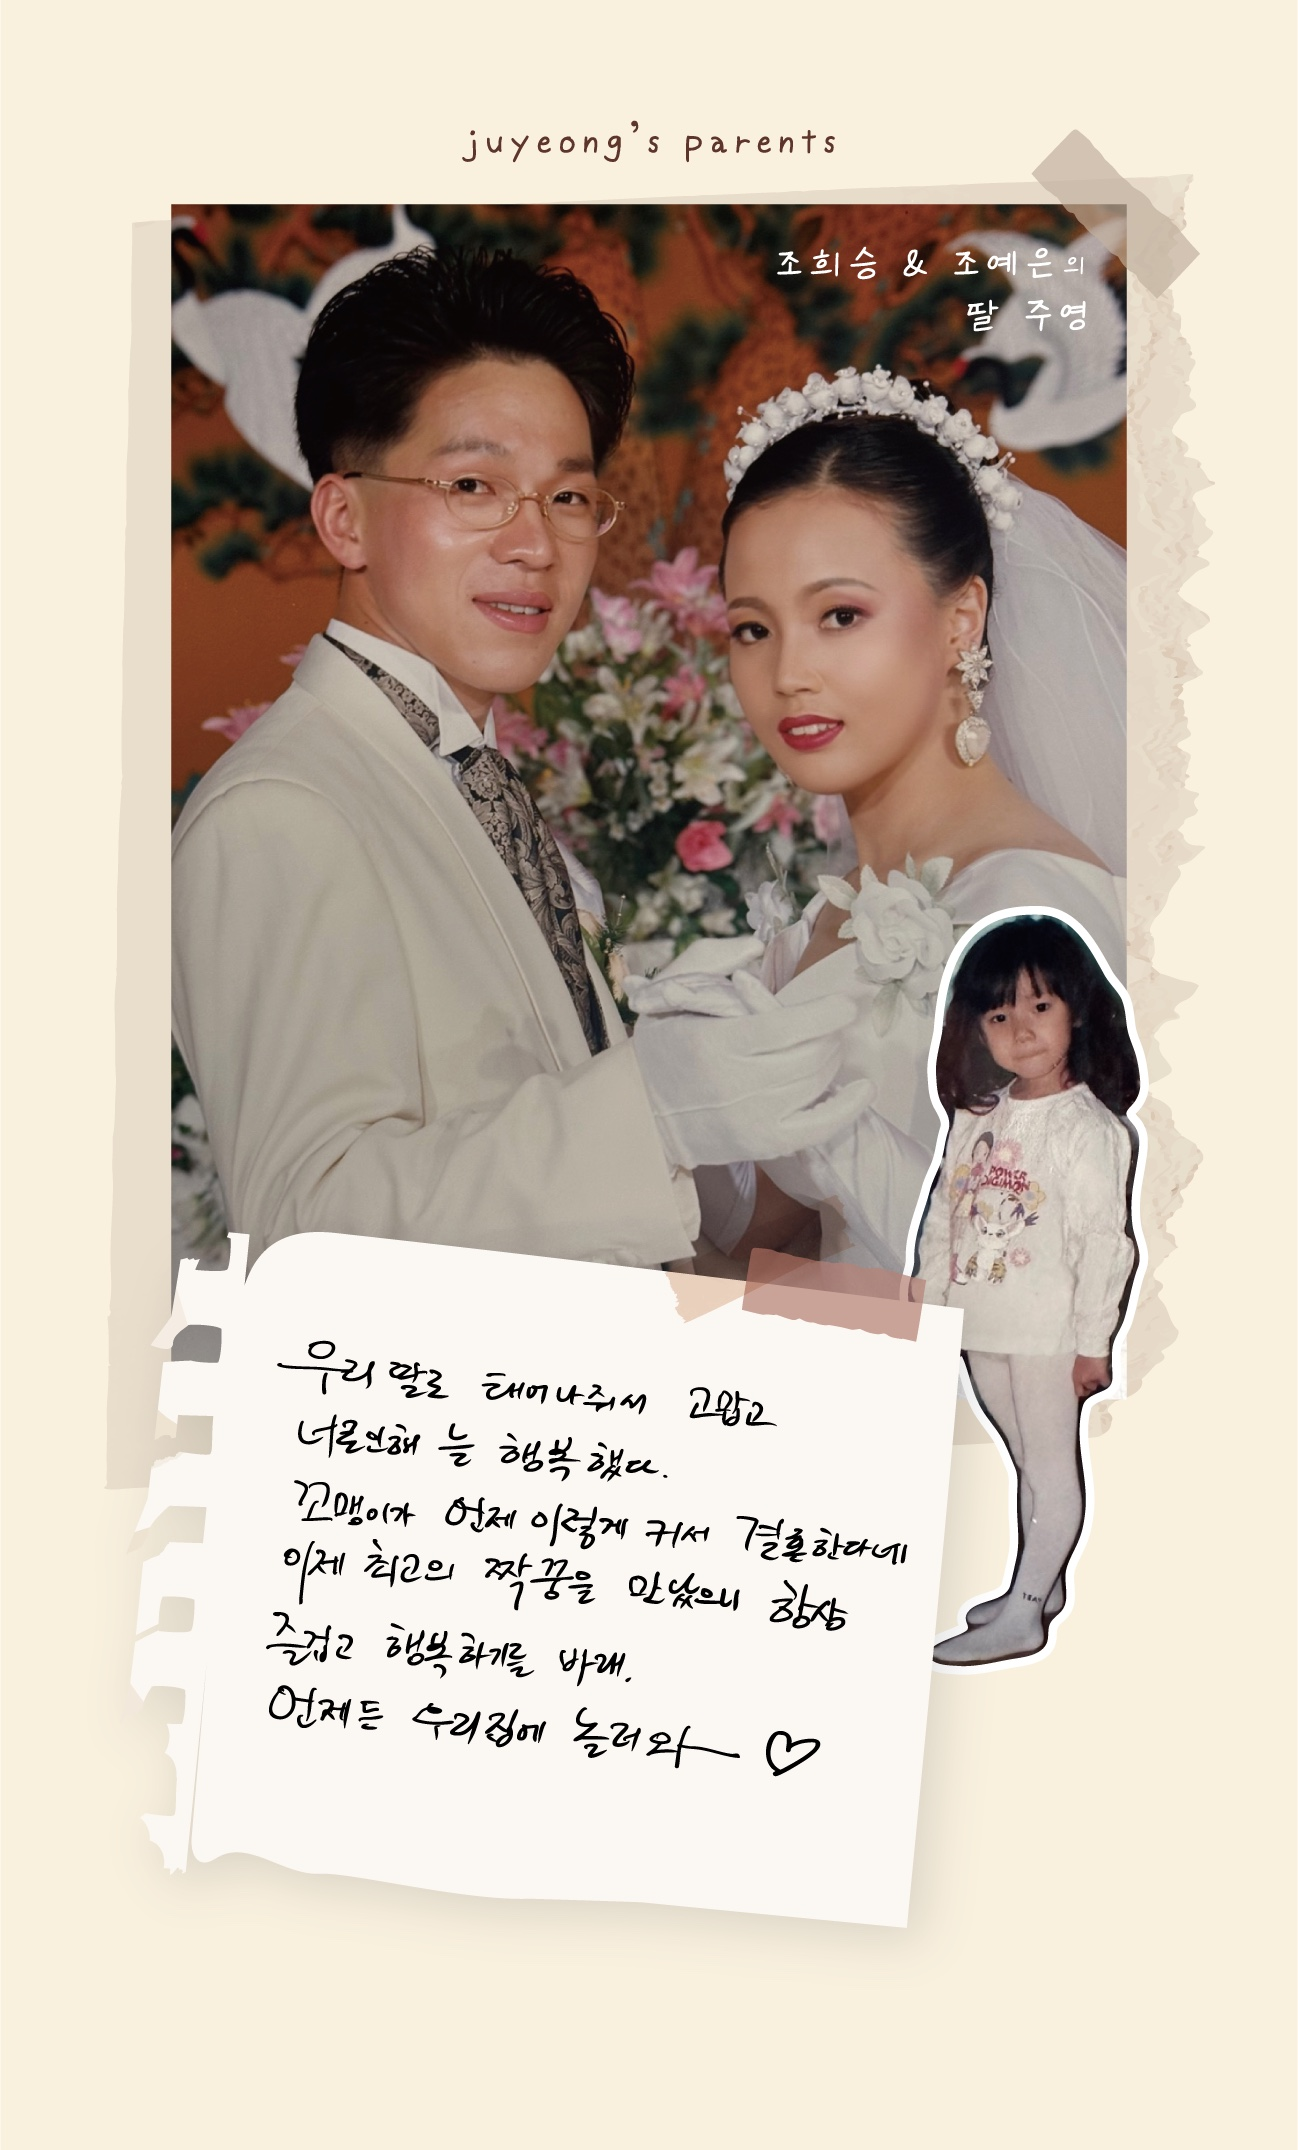
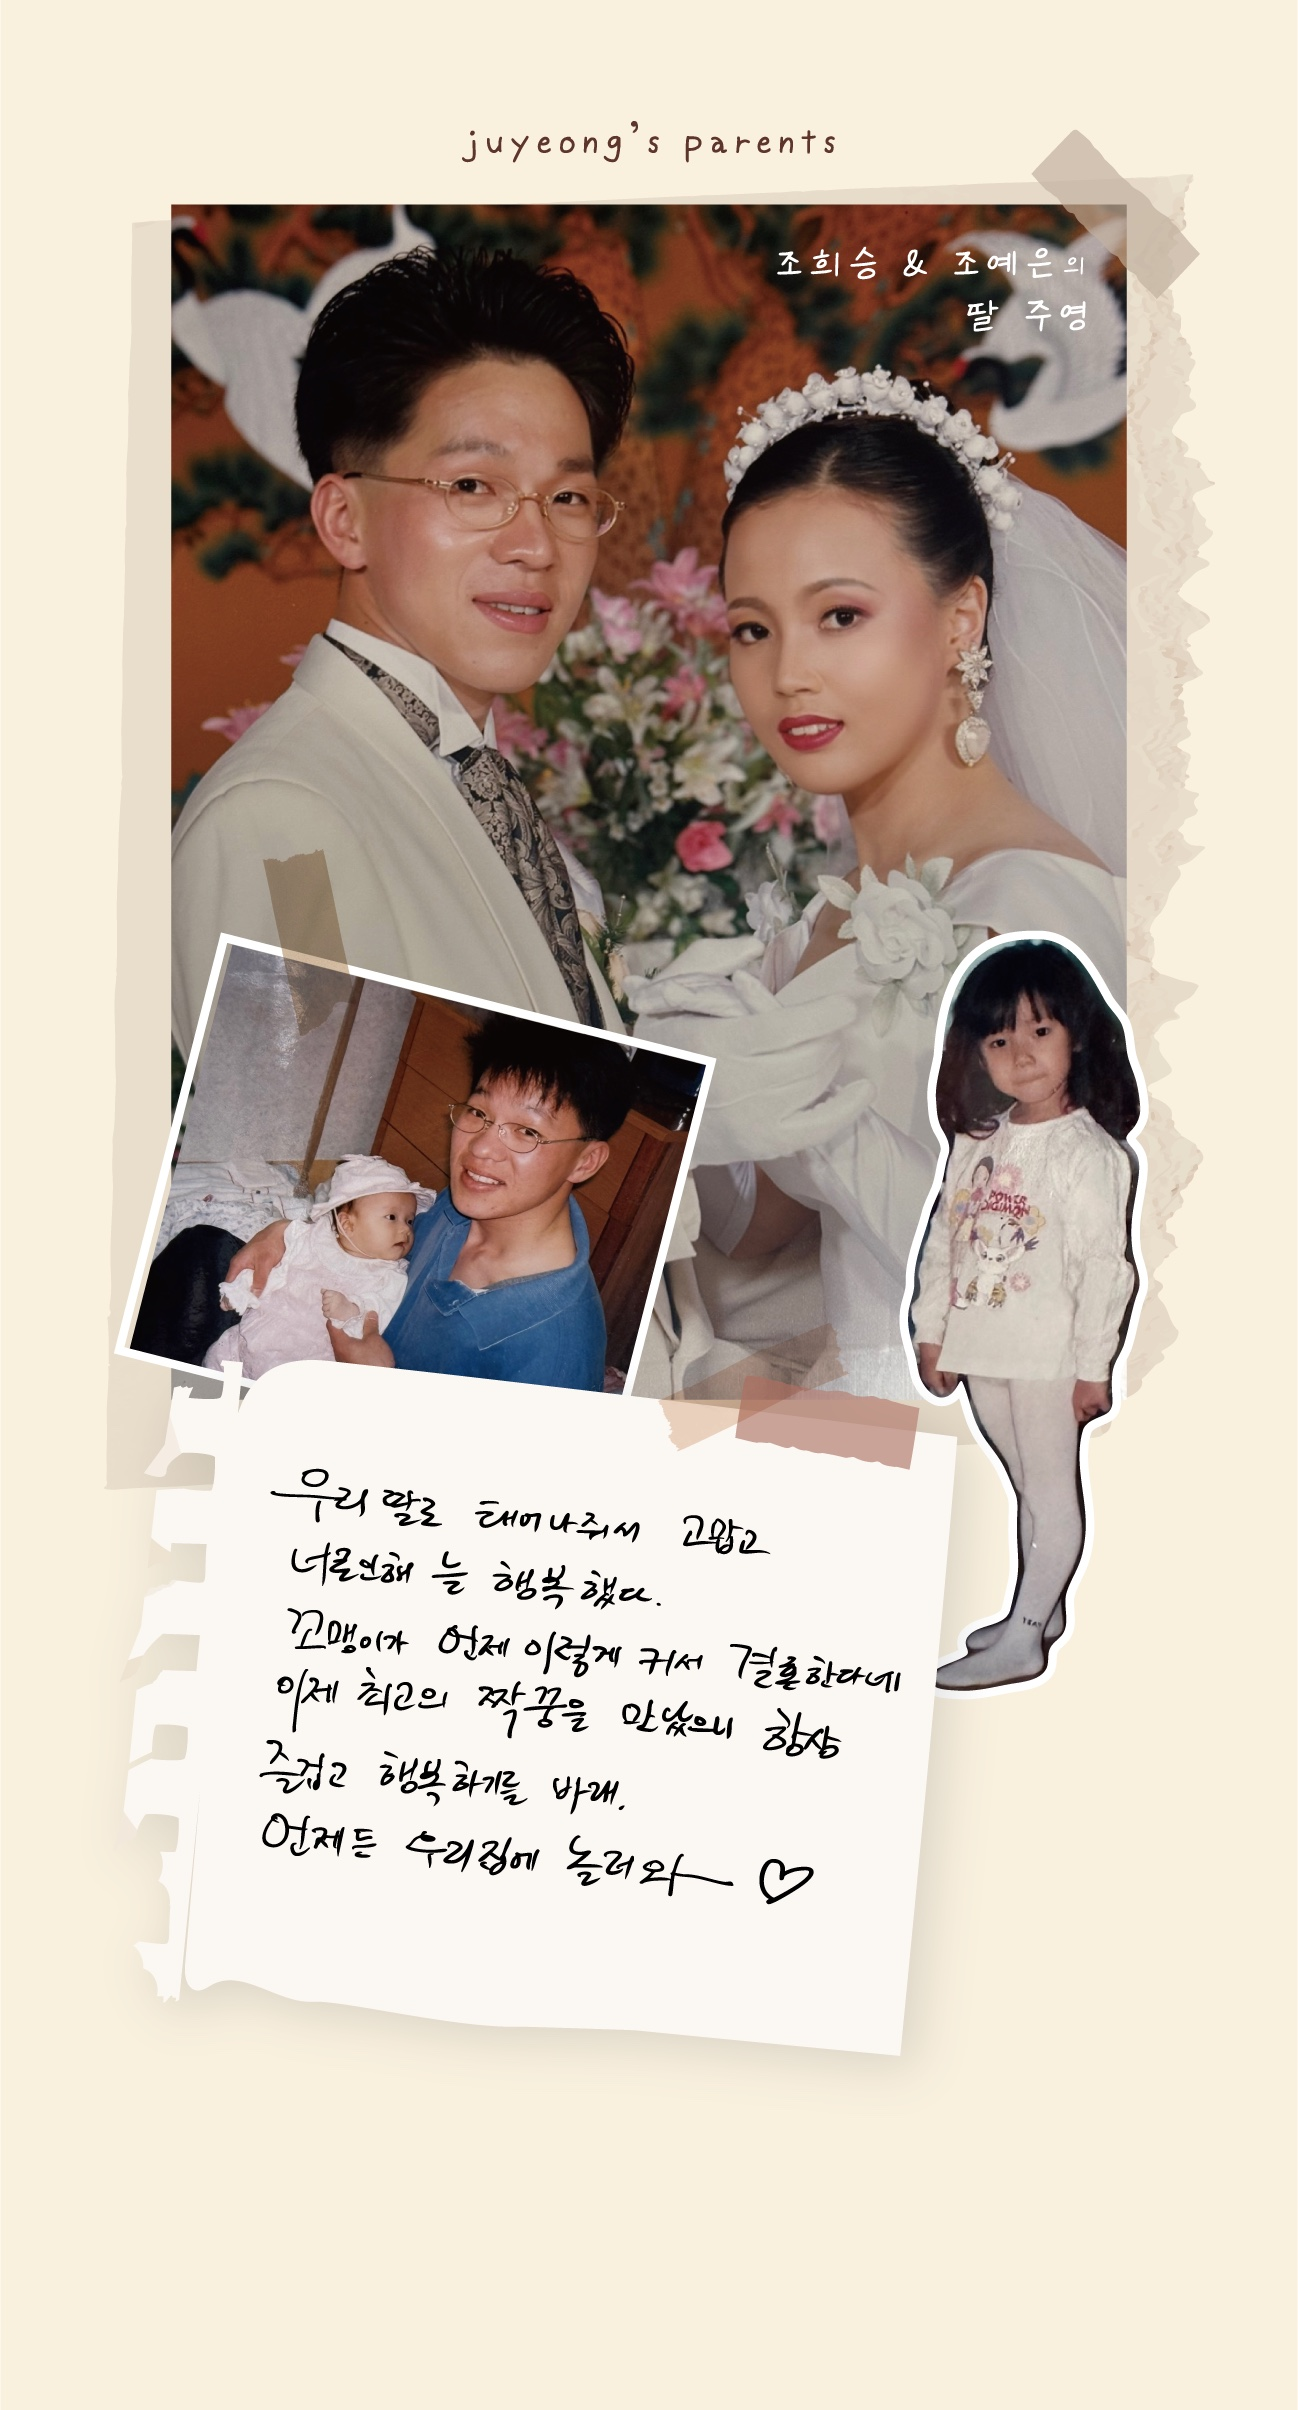
손글씨 이미지 교체(가족사진 추가판) 및 15% 확대, Save the Date 주소 표기 변경

diff --git a/index.html b/index.html
@@ -156,7 +156,8 @@ section { padding: 66px 30px; }
   background-size: 100% auto;
   padding: 64px 30px 30%;
 }
-.parents-img { display: block; width: 100%; height: auto; }
+/* 본문 폭보다 15% 크게 (양쪽 여백으로 살짝 확장, wrap 밖으로는 안 나감) */
+.parents-img { display: block; width: 115%; max-width: none; margin-left: -7.5%; height: auto; }
 .invite-paper-wrap + .parents-img { margin-top: 40px; }
 .parents-img + .parents-img { margin-top: 24px; }
 
@@ -404,7 +405,8 @@ footer .foot-sign {
       <p class="std-time">낮 12시</p>
       <div class="std-detail">
         콘래드 서울 그랜드볼룸 3F<br>
-        서울 영등포구 국제금융로 10 · 신부대기실 6F
+        신부대기실 6F<br>
+        (서울 영등포구 국제금융로 10)
       </div>
     </div>
   </section>
